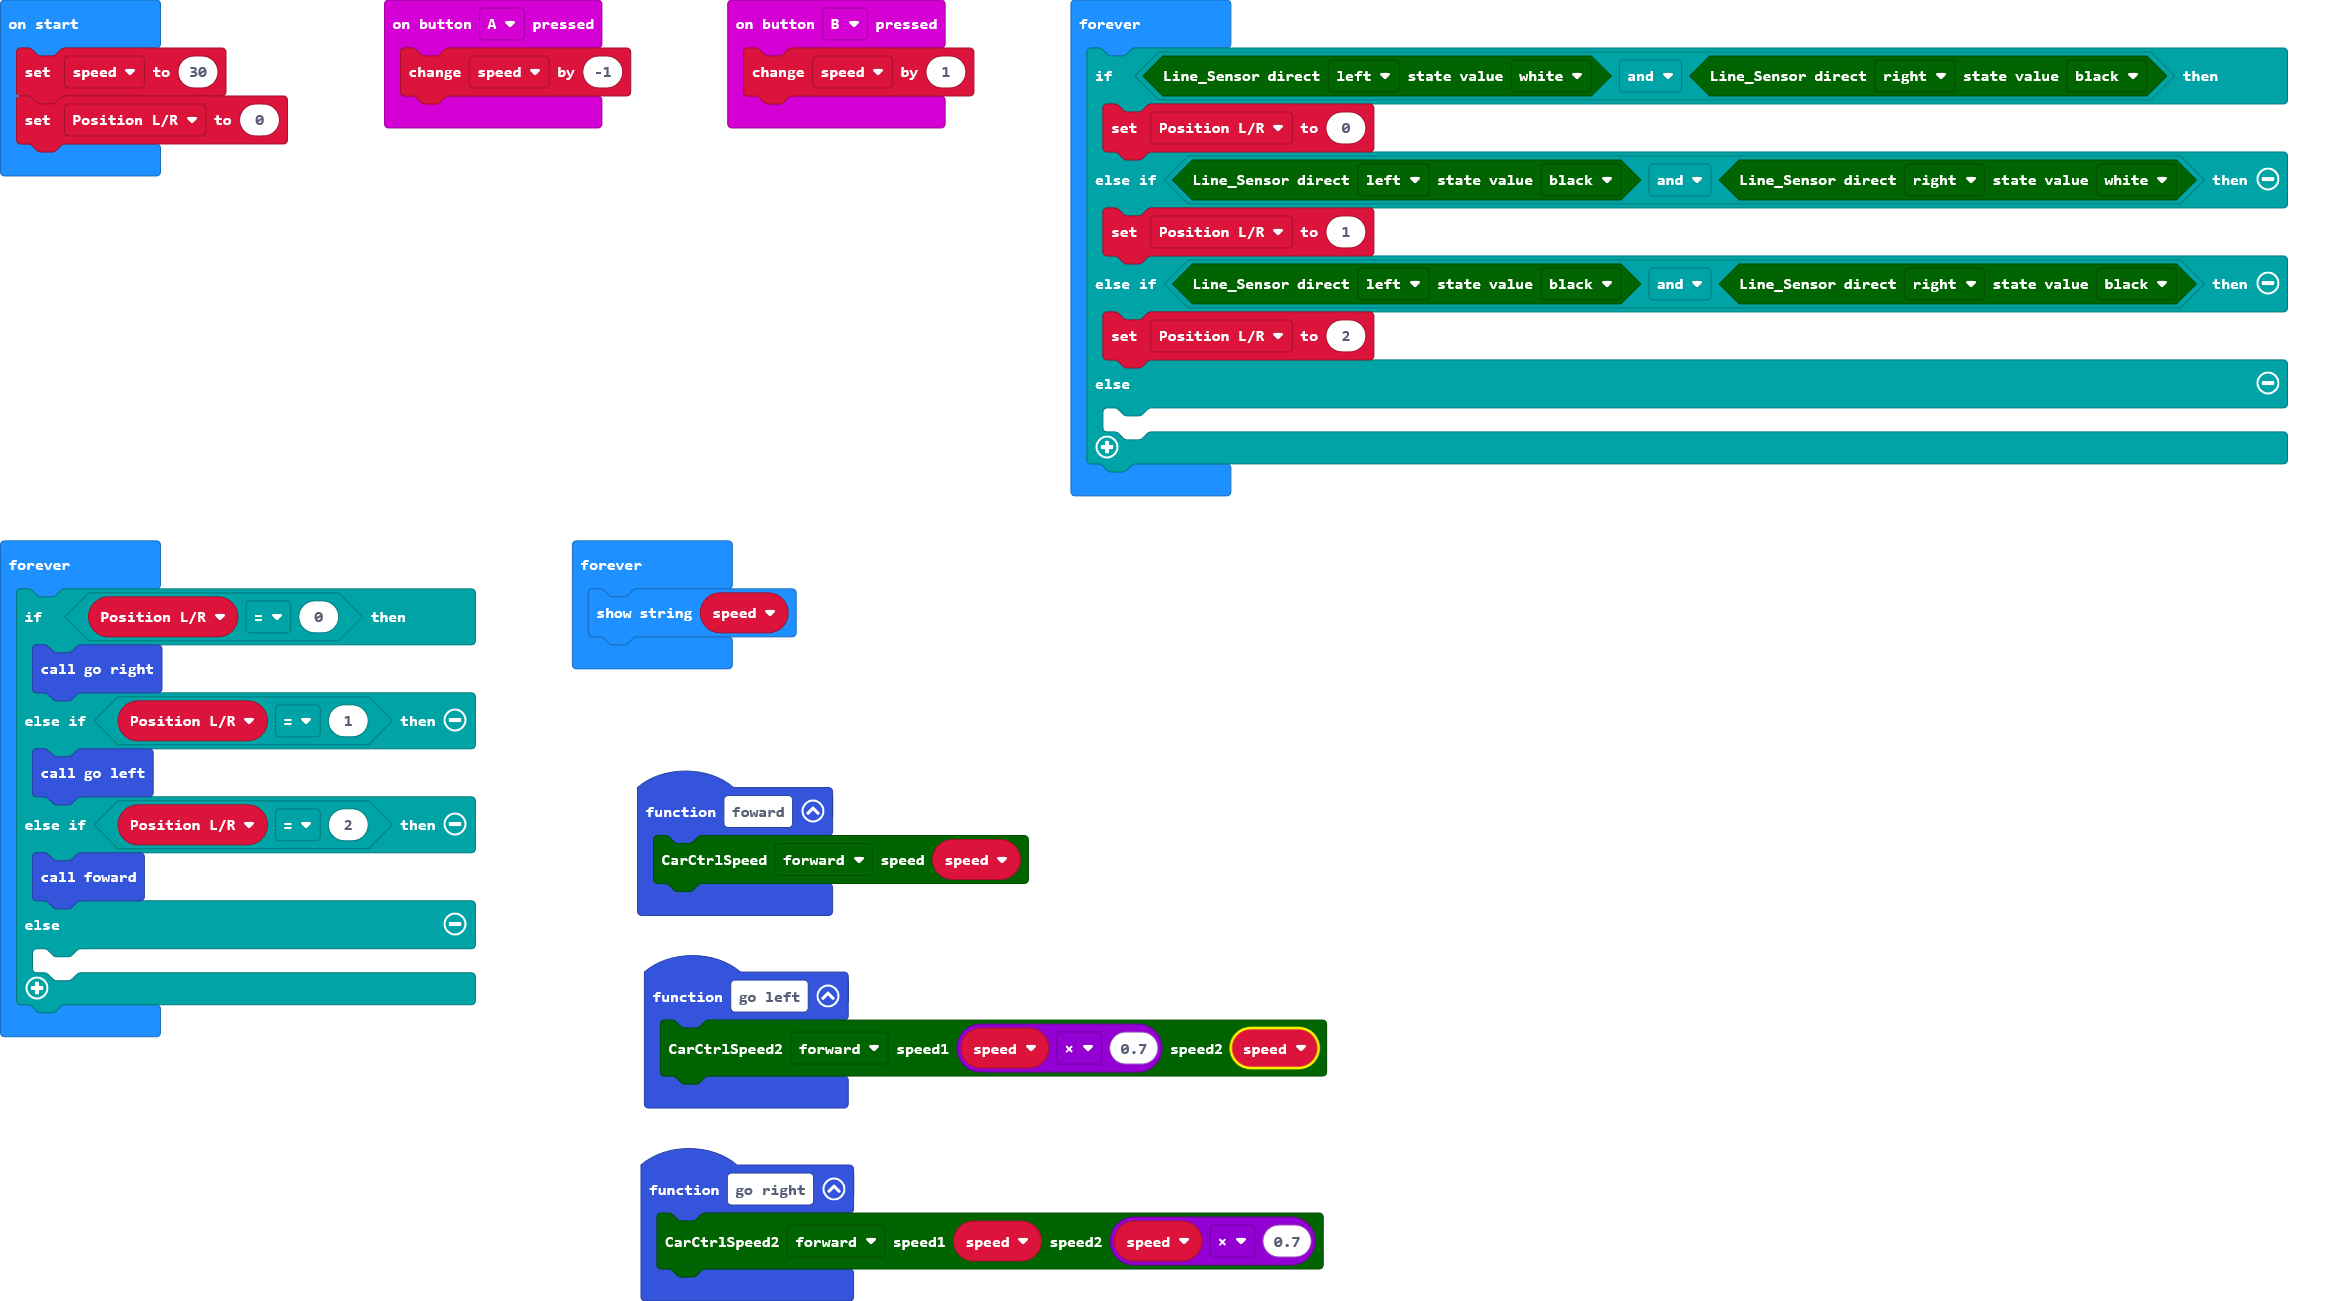
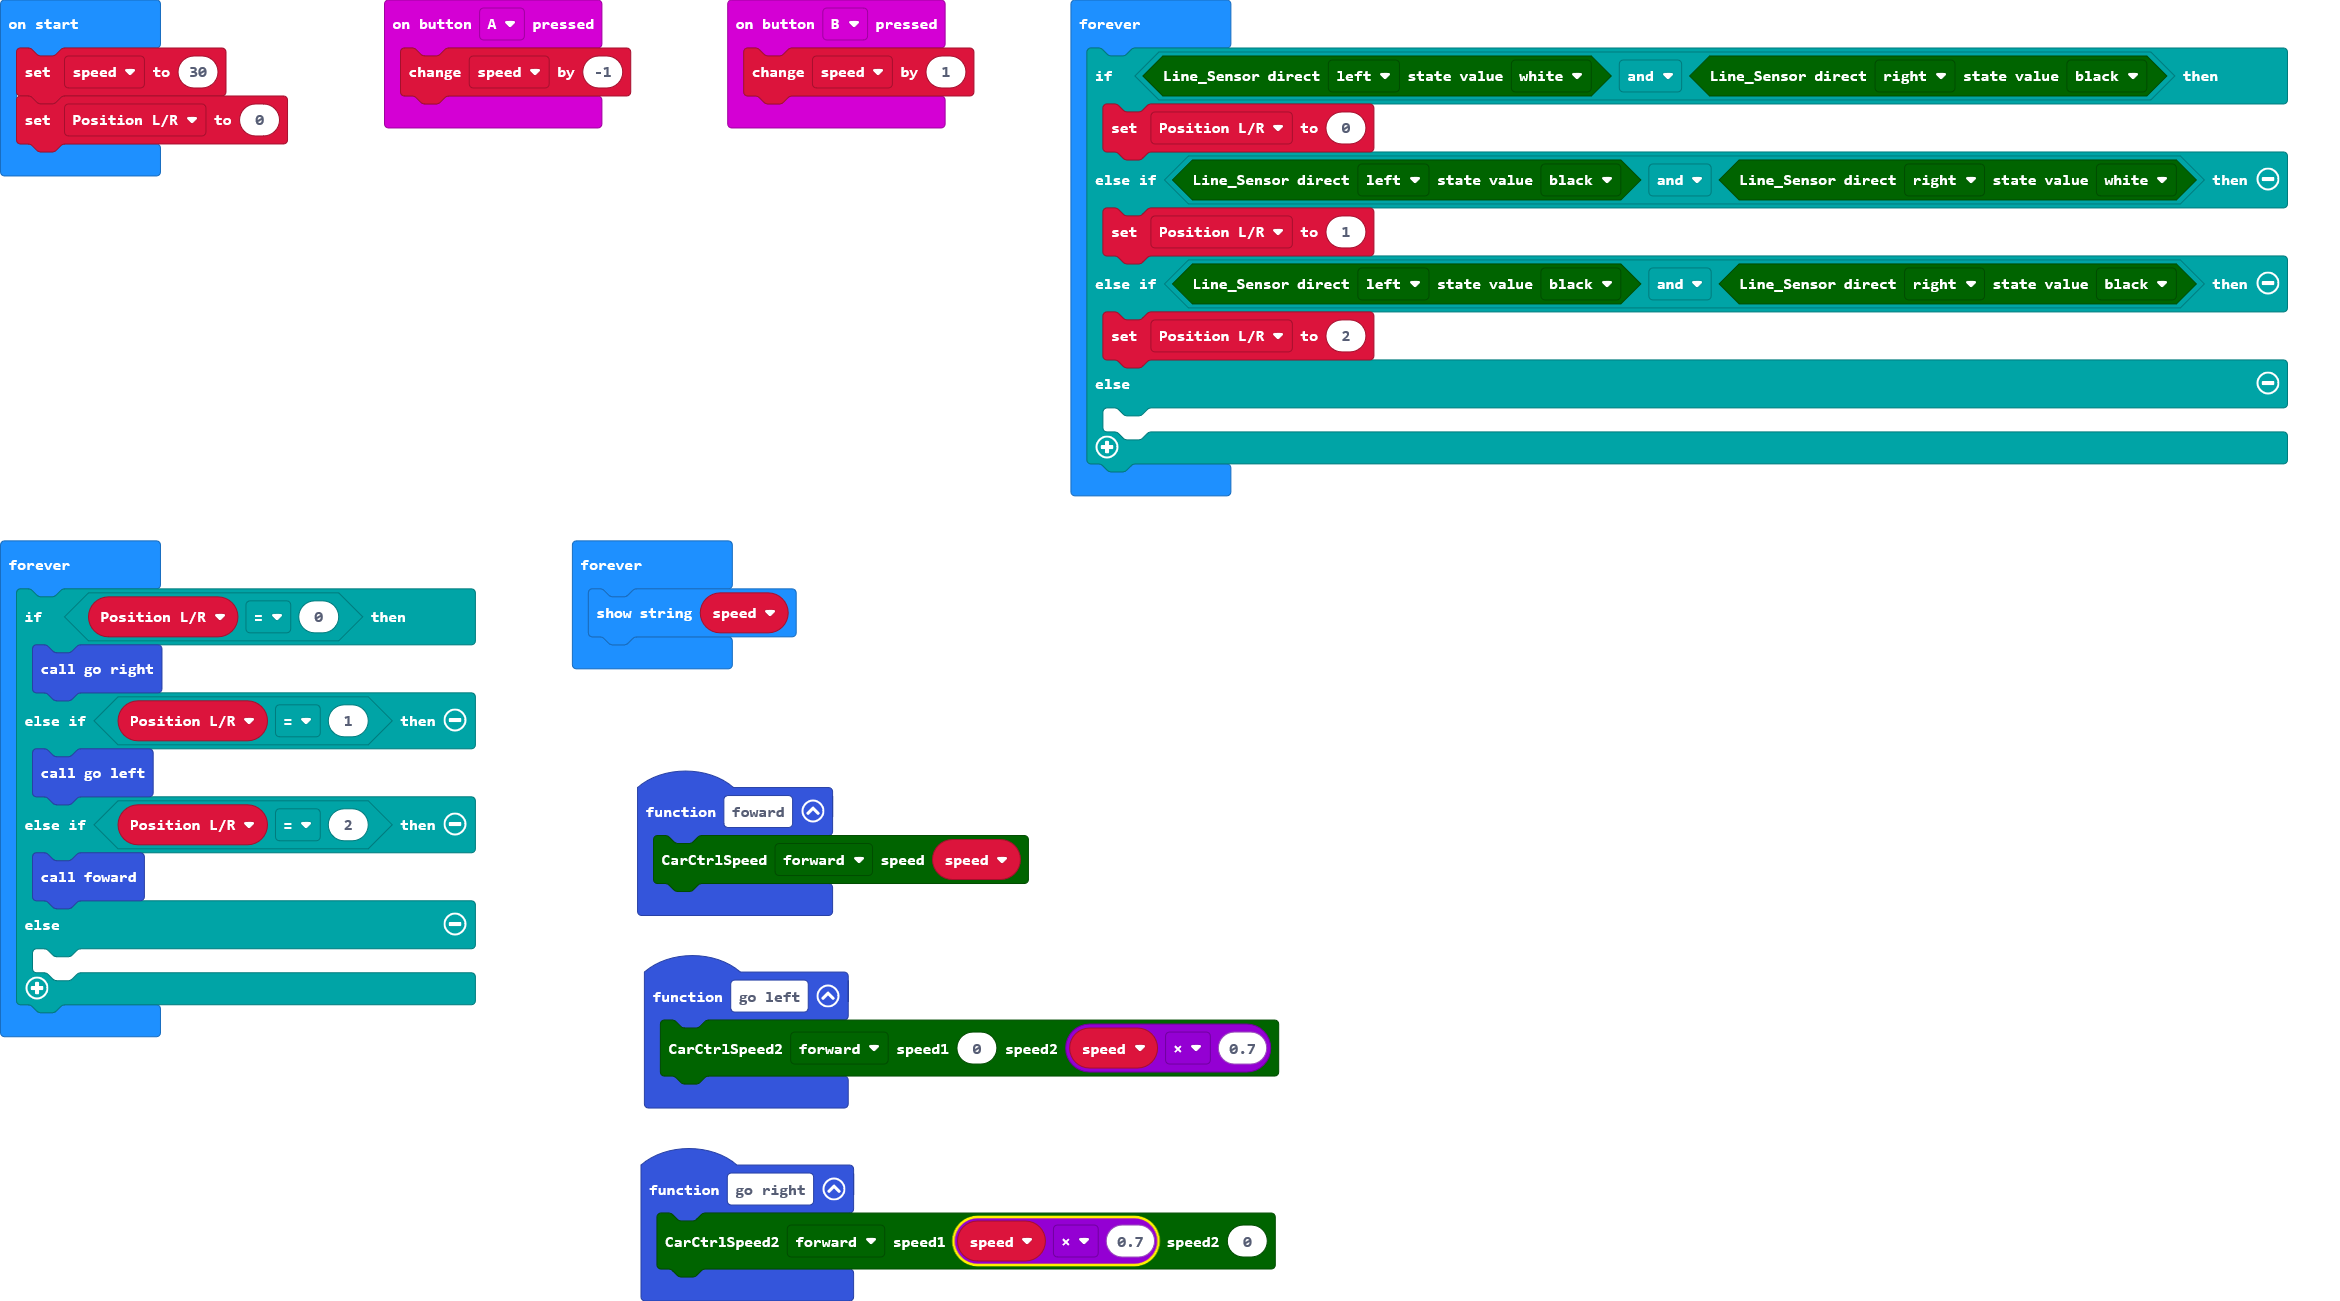
Update main.blocks, main.ts

Changed region(s): [[0.4056, 0.9224, 0.5927, 0.9839], [0.4056, 0.7686, 0.5927, 0.8301]]

diff --git a/main.ts b/main.ts
@@ -2,10 +2,10 @@ input.onButtonPressed(Button.A, function () {
     speed += -1
 })
 function go_left () {
-    mbit_Robot.CarCtrlSpeed2(mbit_Robot.CarState.Car_Run, speed * 0.7, speed)
+    mbit_Robot.CarCtrlSpeed2(mbit_Robot.CarState.Car_Run, 0, speed * 0.7)
 }
 function go_right () {
-    mbit_Robot.CarCtrlSpeed2(mbit_Robot.CarState.Car_Run, speed, speed * 0.7)
+    mbit_Robot.CarCtrlSpeed2(mbit_Robot.CarState.Car_Run, speed * 0.7, 0)
 }
 input.onButtonPressed(Button.B, function () {
     speed += 1
